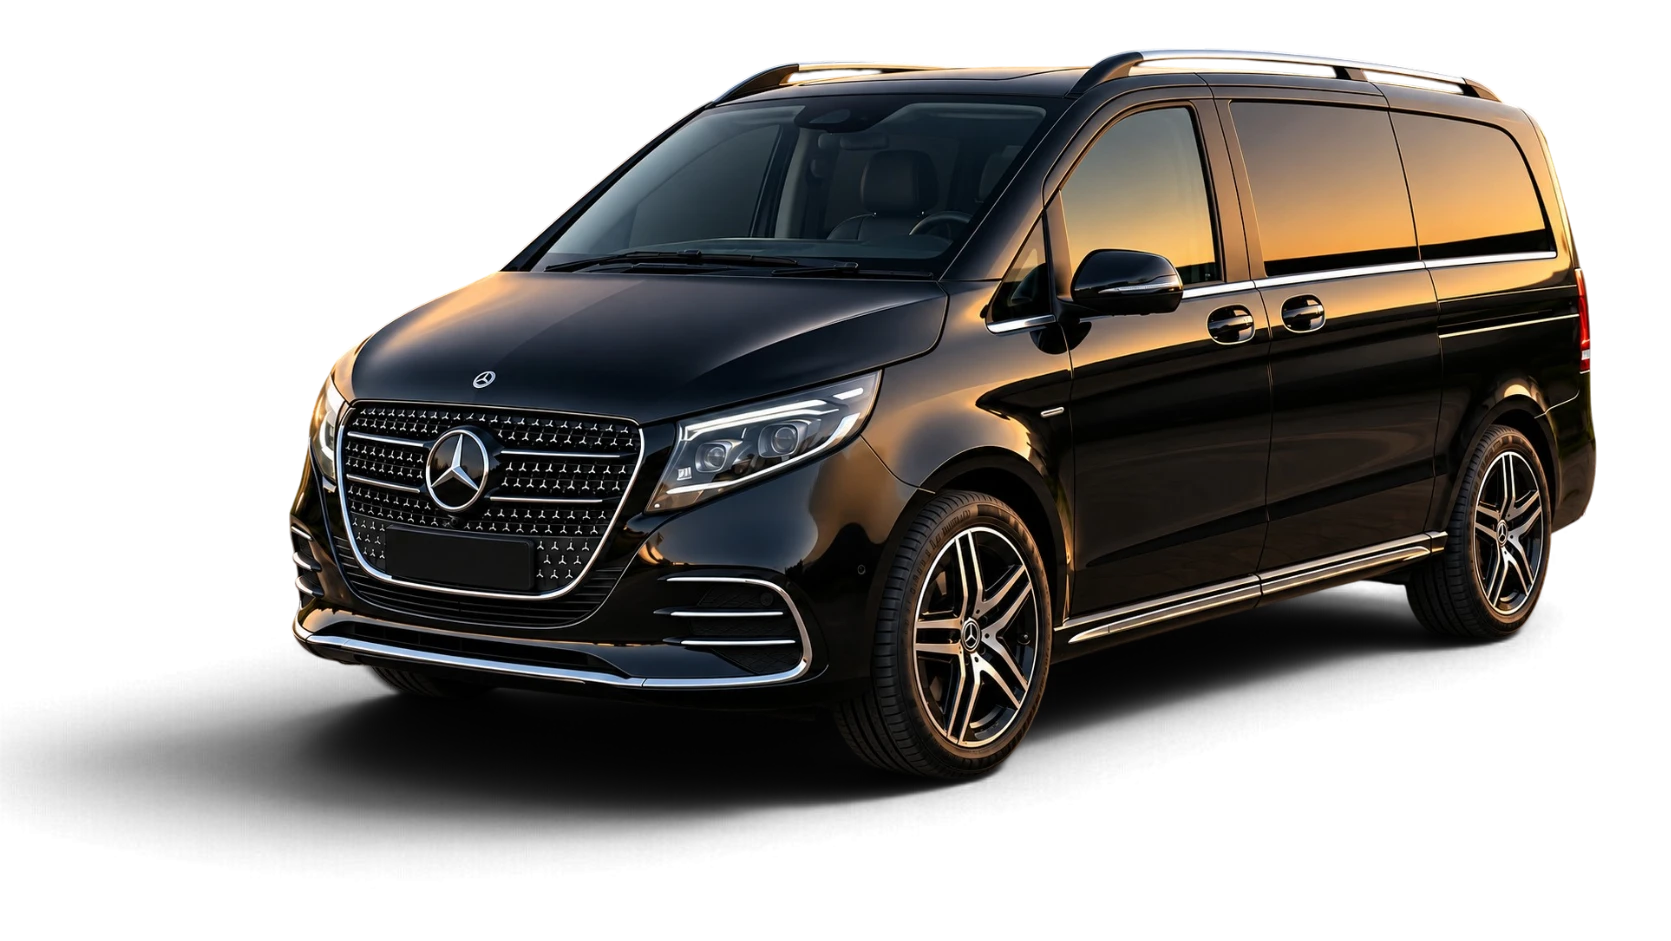
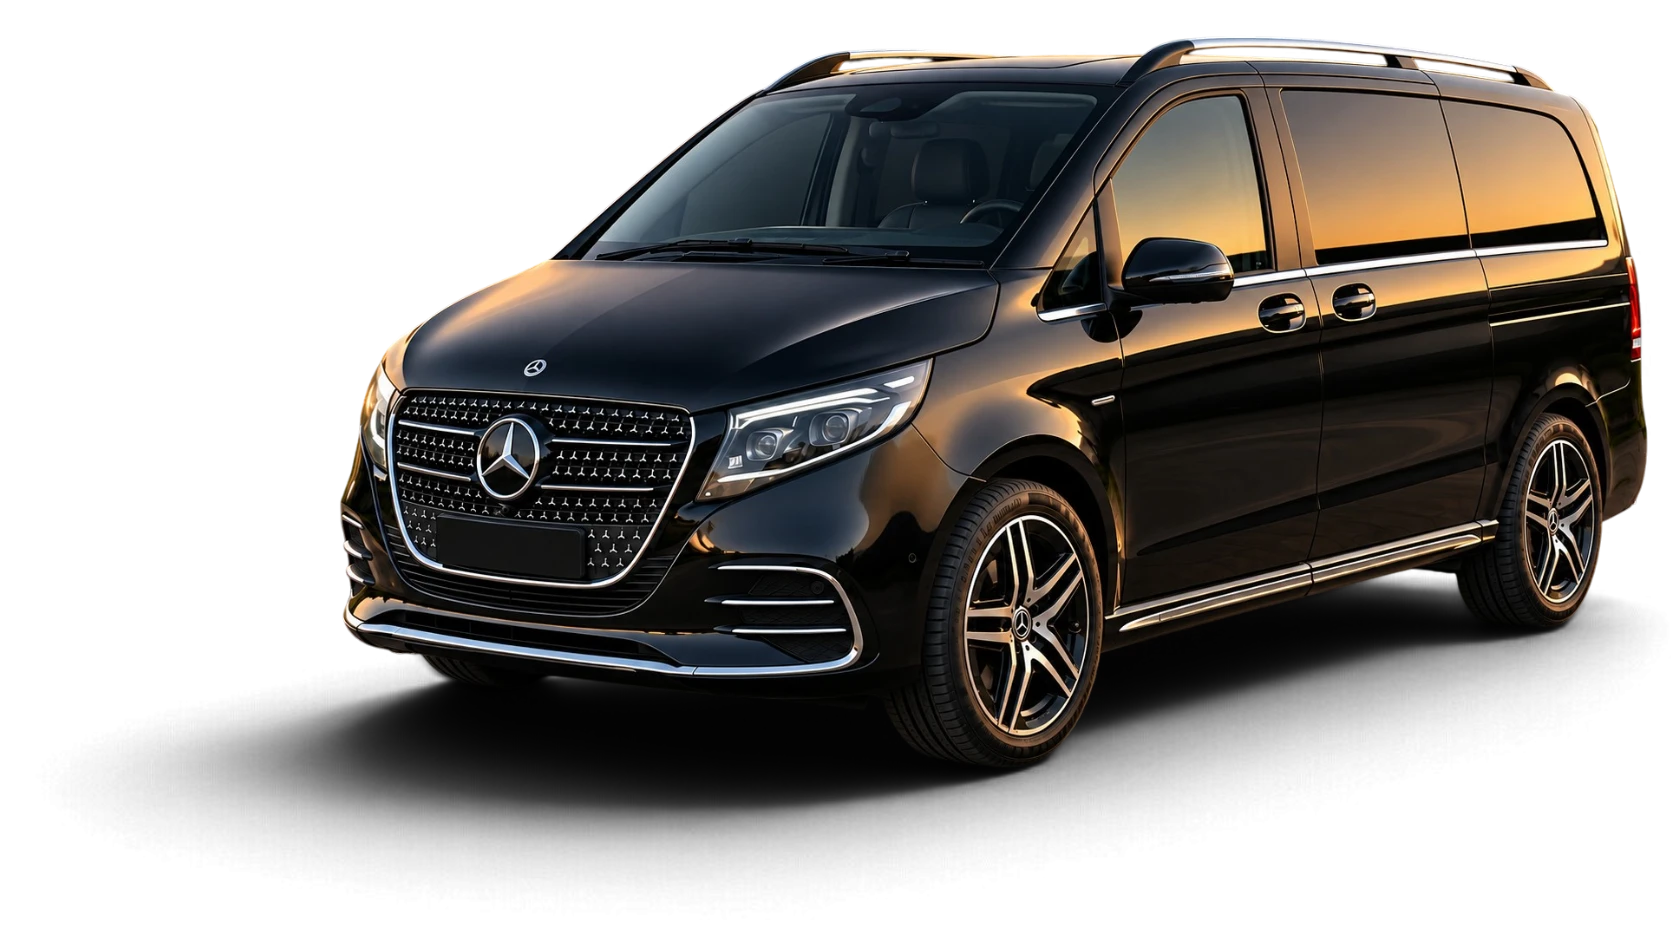
vehiclefix

diff --git a/app/book/page.jsx b/app/book/page.jsx
@@ -510,7 +510,7 @@ function BookingRequest() {
                 </button>
                 {vehicles.map((vehicle) => (
                   <button type="button" key={vehicle.id} className={form.vehicle === vehicle.id ? "is-selected" : ""} onClick={() => update("vehicle", vehicle.id)}>
-                    <img src={vehicle.image_url || "/scenes/ext_r.webp"} alt={vehicle.name} />
+                    <img src={vehicle.image_url || "/v250.webp"} alt={vehicle.name} />
                     <div><p>Available fleet</p><h3>{vehicle.name}</h3><small>{vehicle.seats} passengers · {vehicle.luggage} luggage</small></div>
                     <span className="vehicle-choice__check"><IconCheck /></span>
                   </button>

diff --git a/components/BookingConfiguration.jsx b/components/BookingConfiguration.jsx
@@ -28,7 +28,7 @@ export default function BookingConfiguration() {
     setBookingConfig((current) => ({
       ...current,
       [group]: [...current[group], group === "vehicles"
-        ? { id: `vehicle-${suffix}`, name: "New vehicle", passengers: 7, luggage: 7, image: "/scenes/ext_r.webp", note: "Available fleet", enabled: true }
+        ? { id: `vehicle-${suffix}`, name: "New vehicle", passengers: 7, luggage: 7, image: "/v250.webp", note: "Available fleet", enabled: true }
         : group === "extras"
           ? { id: `extra-${suffix}`, name: "New extra", price: "10", enabled: true }
           : group === "payments"

diff --git a/components/HomeDetails.jsx b/components/HomeDetails.jsx
@@ -39,7 +39,7 @@ export default function HomeDetails() {
             <a className="btn btn--ghost detail-cta" href="/book">{t.nav.book}<IconArrowUpRight /></a>
           </div>
           <figure className="fleet-detail__vehicle">
-            <img src="/scenes/ext_r.webp" alt="Mercedes-Benz V-Class V250 executive van" loading="lazy" />
+            <img src="/v250.webp" alt="Mercedes-Benz V-Class V250 executive van" loading="lazy" />
             <figcaption>V250 · Executive comfort for up to seven guests</figcaption>
           </figure>
         </div>

diff --git a/lib/bookingConfig.js b/lib/bookingConfig.js
@@ -7,7 +7,7 @@ export const DEFAULT_BOOKING_CONFIG = {
     { id: "tour", name: "Tour", note: "A private journey at your pace", enabled: true },
   ],
   vehicles: [
-    { id: "v250", name: "Mercedes-Benz V-Class V250", passengers: 7, luggage: 7, image: "/scenes/ext_r.webp", note: "Executive comfort", enabled: true },
+    { id: "v250", name: "Mercedes-Benz V-Class V250", passengers: 7, luggage: 7, image: "/v250.webp", note: "Executive comfort", enabled: true },
   ],
   extras: [
     { id: "child-seat", name: "Child Seat", price: "20", enabled: true },

diff --git a/components/Cinematic.jsx b/components/Cinematic.jsx
@@ -183,7 +183,7 @@ export default function Cinematic() {
         ))}
         <div className="van-reflection" aria-hidden="true" />
         <div className="van">
-          <img src="/scenes/ext_r.webp" alt="Mercedes-Benz V-Class V250" width="2048" height="1024" />
+          <img src="/v250.webp" alt="Mercedes-Benz V-Class V250" width="1671" height="941" />
         </div>
 
         {STEPS.map((key, i) => {
